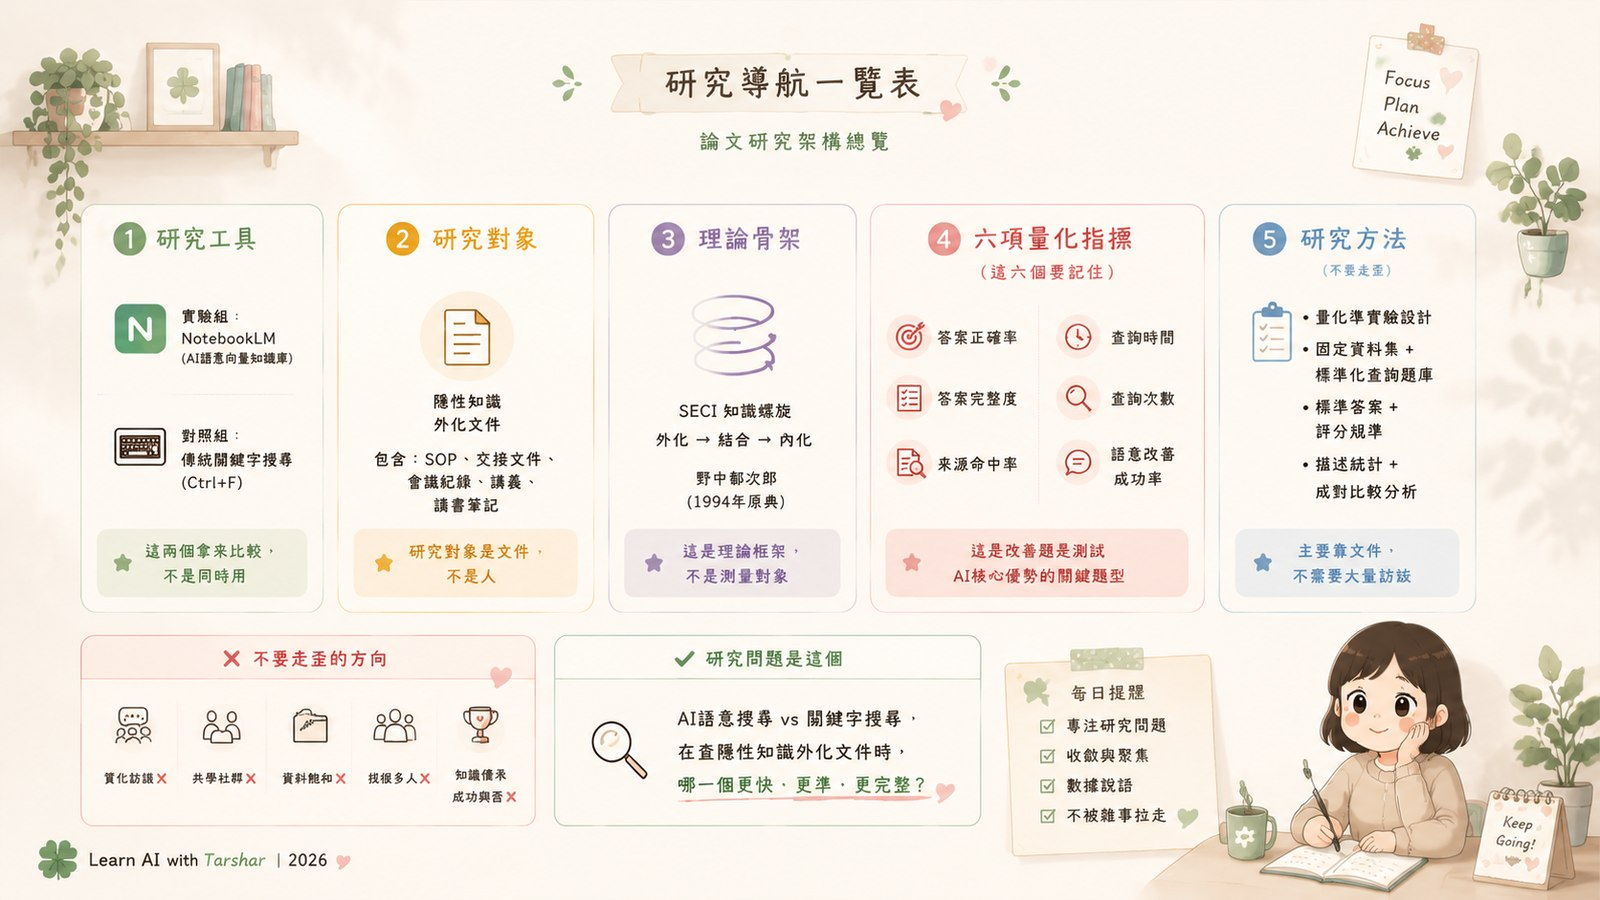
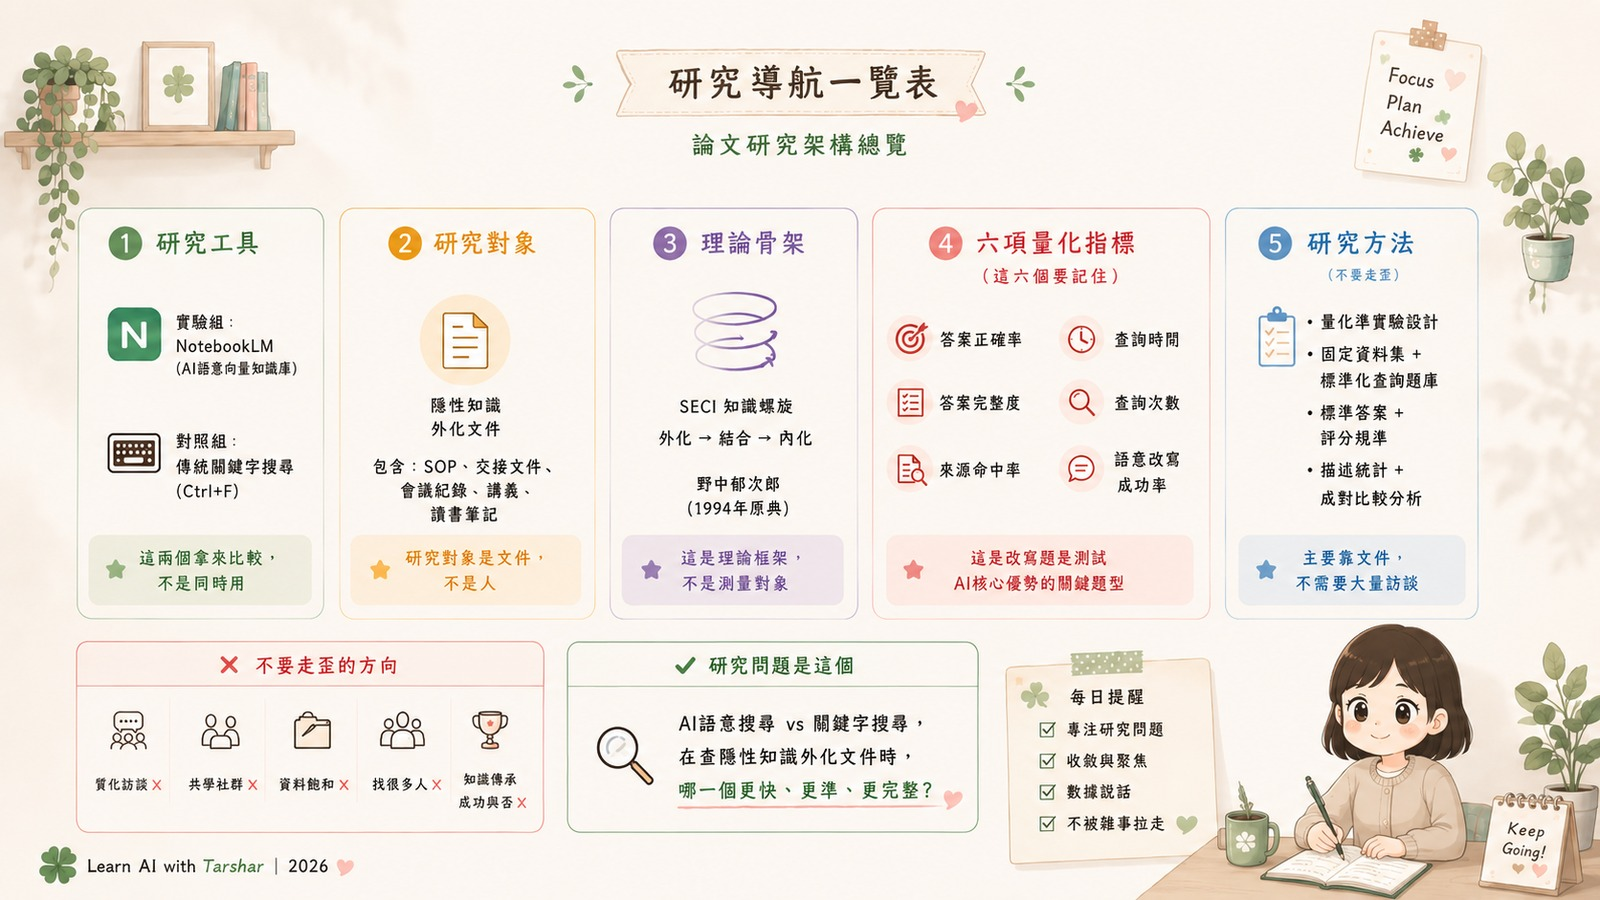
更換研究架構總覽圖：修正人物三隻手；指標名同步為「語意改寫成功率」，報告單該項標記為已修正

diff --git a/meeting0828.html b/meeting0828.html
@@ -241,9 +241,9 @@ footer{text-align:center;padding:22px 14px 40px;color:var(--muted);font-size:11p
     <p>meeting-01：AI 輔助隱性知識擷取與傳承之研究<br>6/27 草稿：AI 輔助知識檢索成效之研究（<b>刻意拿掉「隱性知識」</b>）<br>現行：AI 語意向量知識庫對隱性知識外化文件之檢索成效研究</p>
     <p><b>建議用現行版</b>——「隱性知識外化文件」精準框住研究對象＝已文件化的經驗知識，正好解決 6/27 自己擔心的定義問題。但要準備好操作型定義。</p>
   </div>
-  <div class="warn">
-    <b>🟡 3. 指標名稱不一致</b>
-    <p>6/27 草稿寫「語意<b>改寫</b>成功率」，研究架構圖寫「語意<b>改善</b>成功率」。<b>統一用「語意改寫成功率」</b>（指的是查詢語句改寫，不是改善）。</p>
+  <div class="card" style="border-left:5px solid var(--green);background:#eef5ee">
+    <b style="color:#2c6647;font-size:13px">✅ 3. 指標名稱不一致 —— 已於 2026-08-23 修正</b>
+    <p style="margin:6px 0 0;font-size:13px;line-height:1.8;color:#3f5147">研究架構圖原寫「語意<b>改善</b>成功率」，已更新為「語意<b>改寫</b>成功率」，與 6/27 草稿一致。<b>meeting 時統一講「語意改寫成功率」</b>（指的是查詢語句改寫，不是改善）。</p>
   </div>
   <div class="gold">
     <b>📌 還有一件事要老實面對：</b>我的六項指標裡，<b>查詢時間、查詢次數、語意改寫成功率這三項，A09 和 A12 都沒有</b>。<br>
